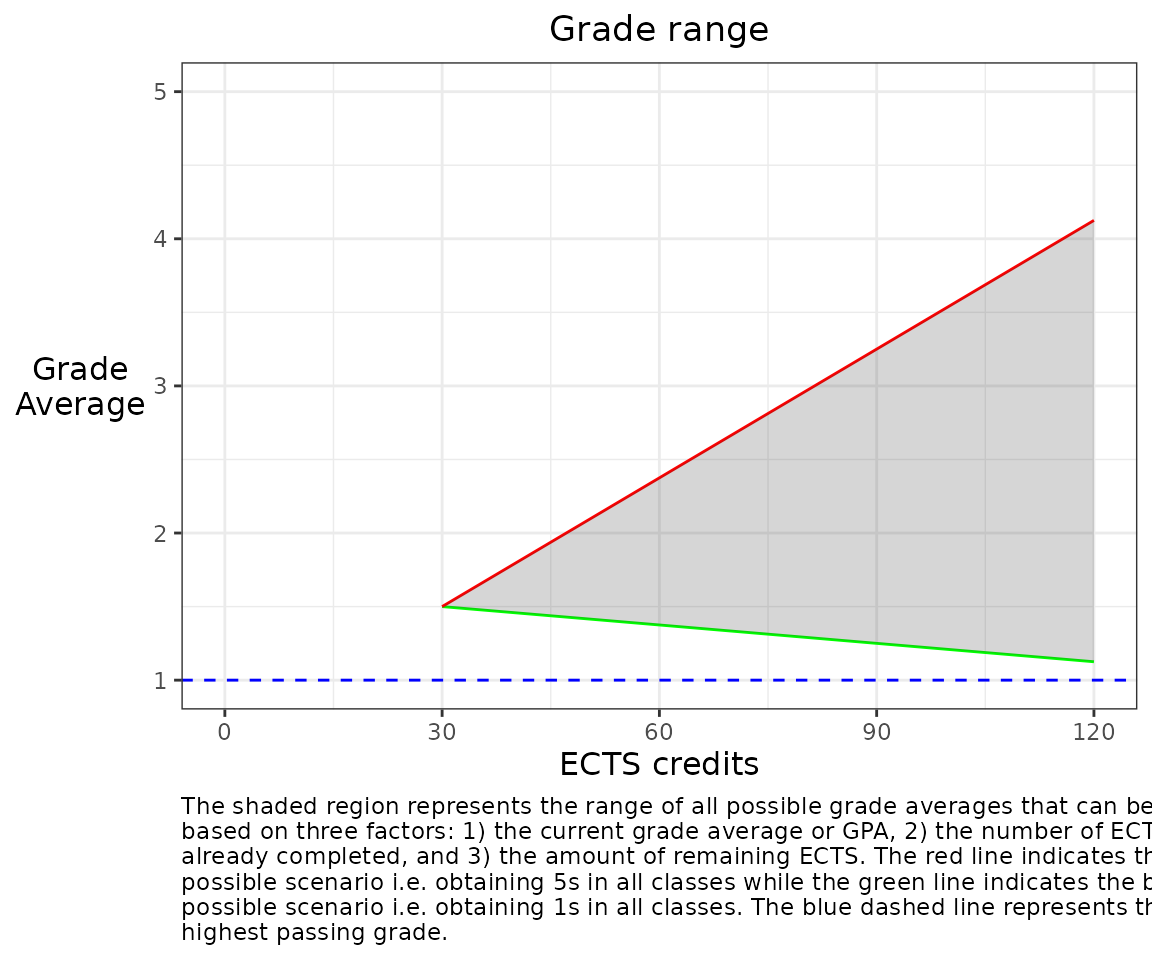
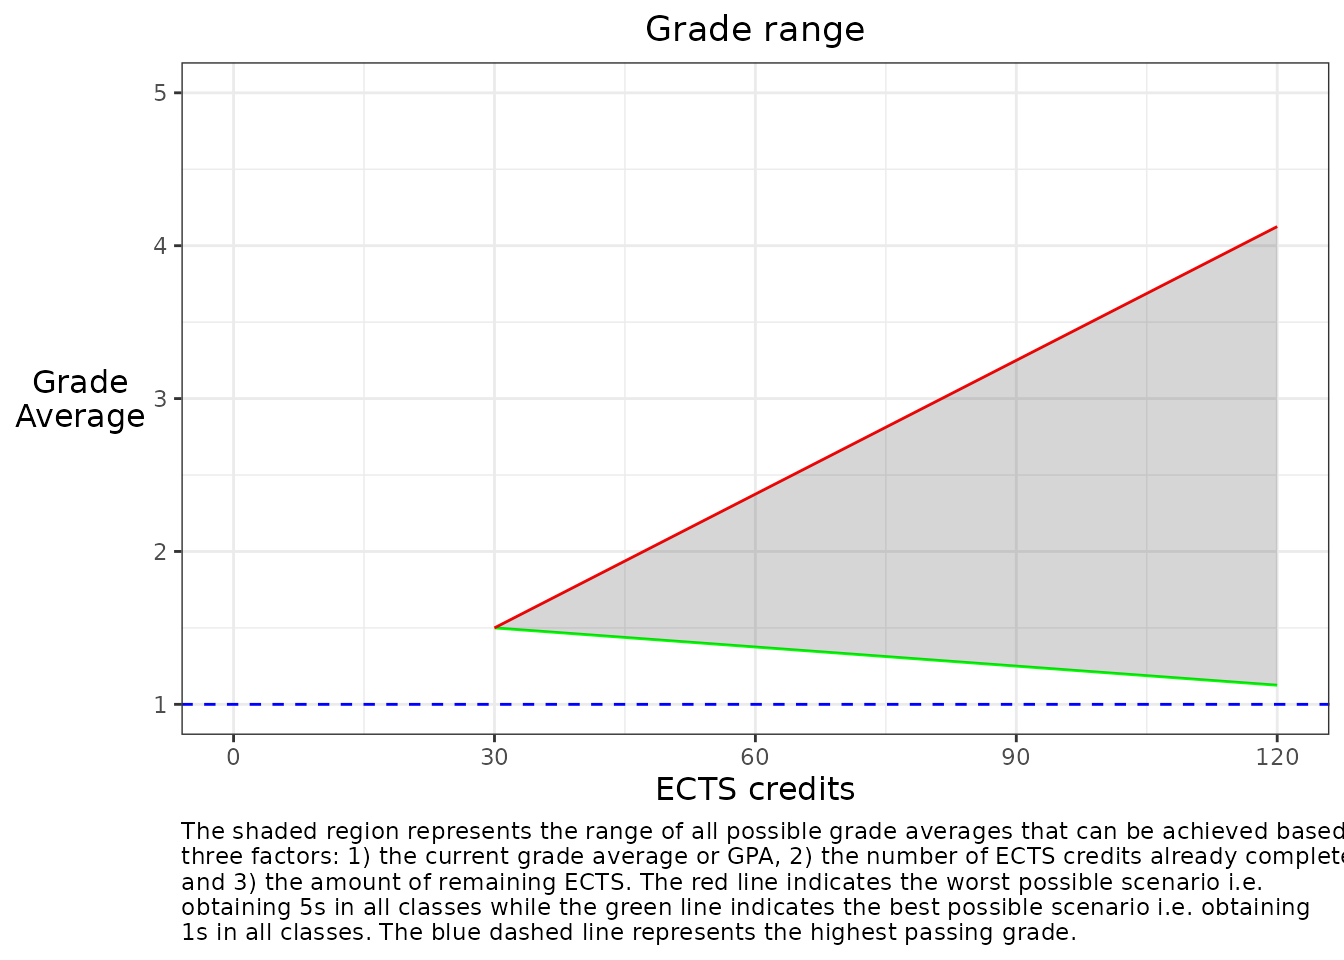
Deploying to gh-pages from @ NeuroShepherd/gradecast@d84119a2e7cb186f249eff946cbc90e128ff3214 🚀

diff --git a/articles/gradecast.html b/articles/gradecast.html
@@ -149,8 +149,8 @@ range.</p>
 <div class="sourceCode" id="cb3"><pre class="downlit sourceCode r">
 <code class="sourceCode R"><span><span class="fu"><a href="../reference/plot_grade_range.html">plot_grade_range</a></span><span class="op">(</span><span class="va">completed</span>, <span class="va">grade</span>, <span class="va">remaining</span>,</span>
 <span>                 max_passing_grade <span class="op">=</span> <span class="fl">1</span>, min_passing_grade <span class="op">=</span> <span class="fl">5</span>,</span>
-<span>                 caption_width <span class="op">=</span> <span class="fl">90</span><span class="op">)</span></span></code></pre></div>
-<p><img src="gradecast_files/figure-html/unnamed-chunk-3-1.png" width="576" style="display: block; margin: auto;"></p>
+<span>                 caption_width <span class="op">=</span> <span class="fl">100</span><span class="op">)</span></span></code></pre></div>
+<p><img src="gradecast_files/figure-html/unnamed-chunk-3-1.png" width="672" style="display: block; margin: auto;"></p>
 <p>Note: this function actually wraps the
 <code><a href="../reference/calculate_grade_range.html">calculate_grade_range()</a></code> function and creates a ggplot2
 object based on the results (hence the reason for having many of the
